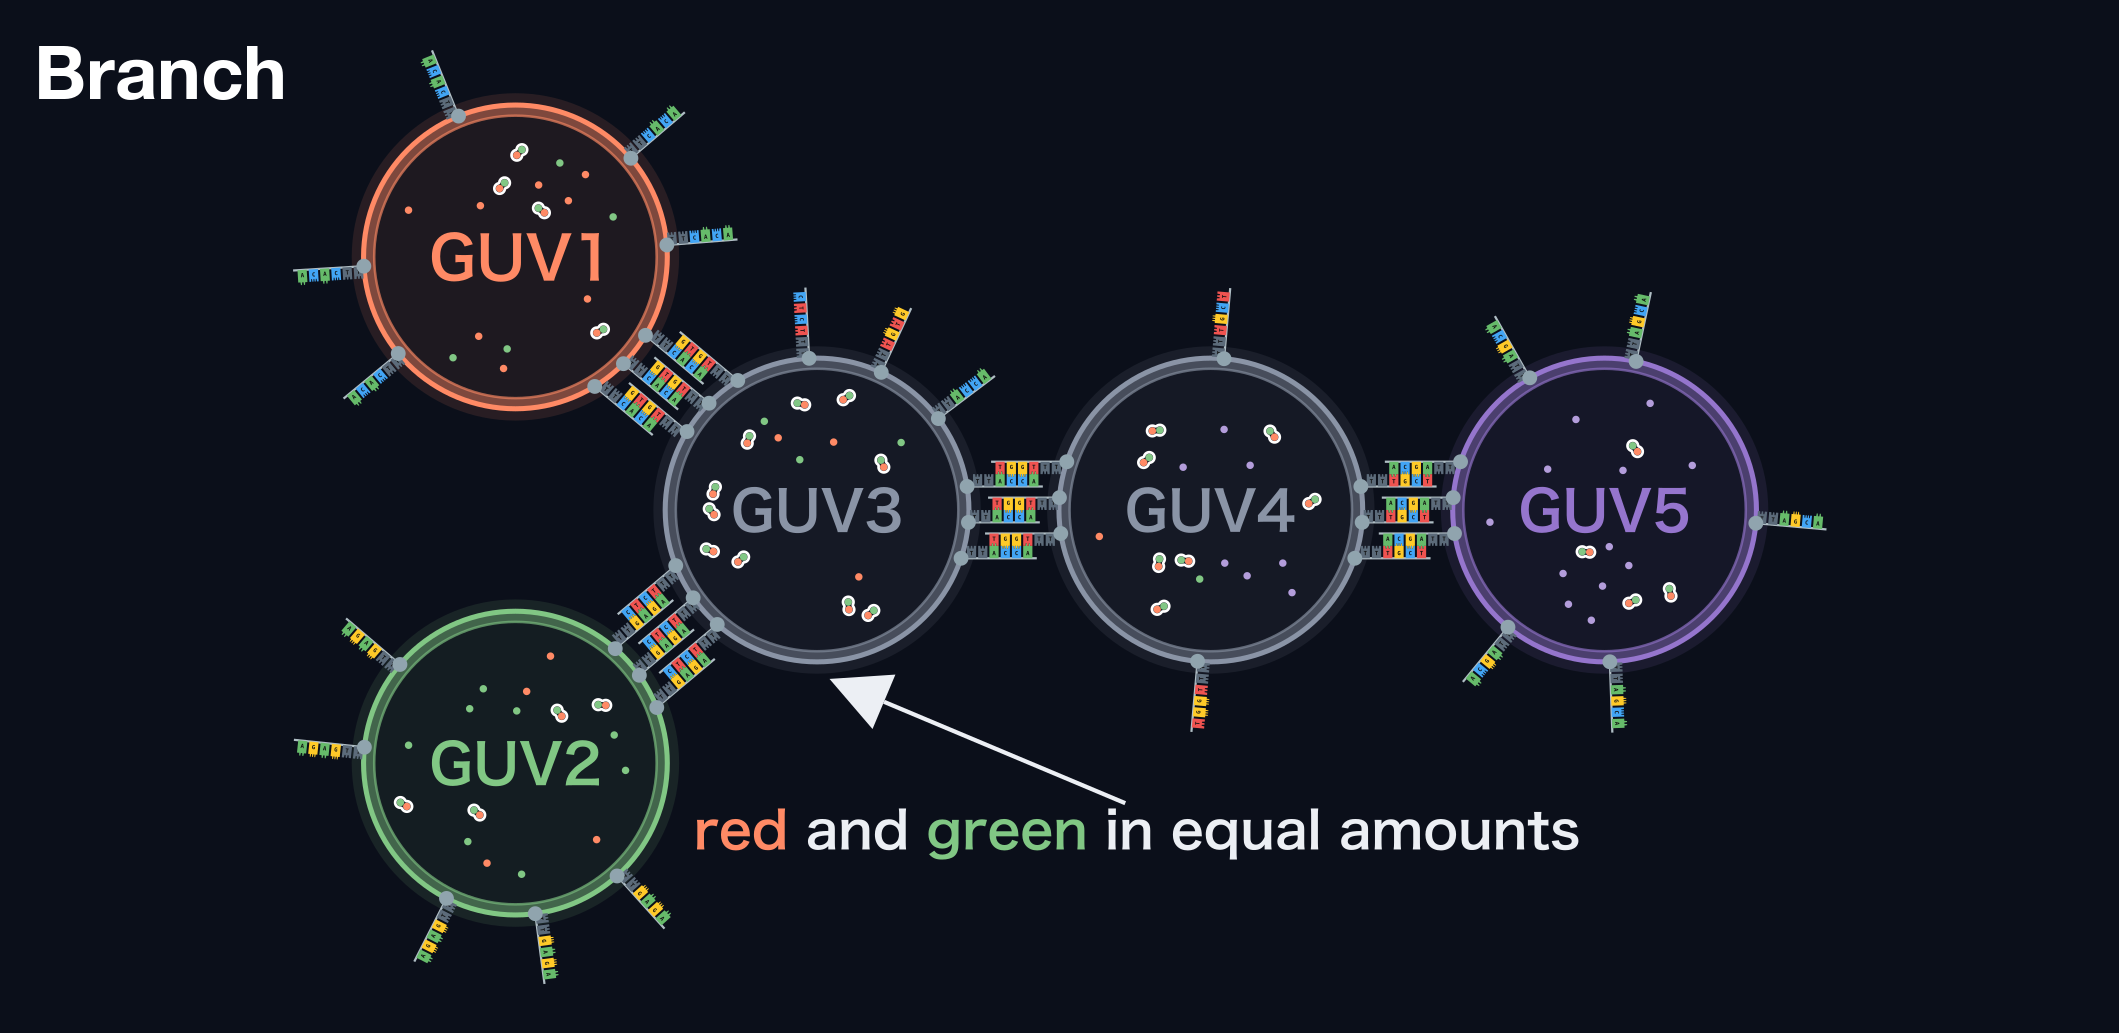
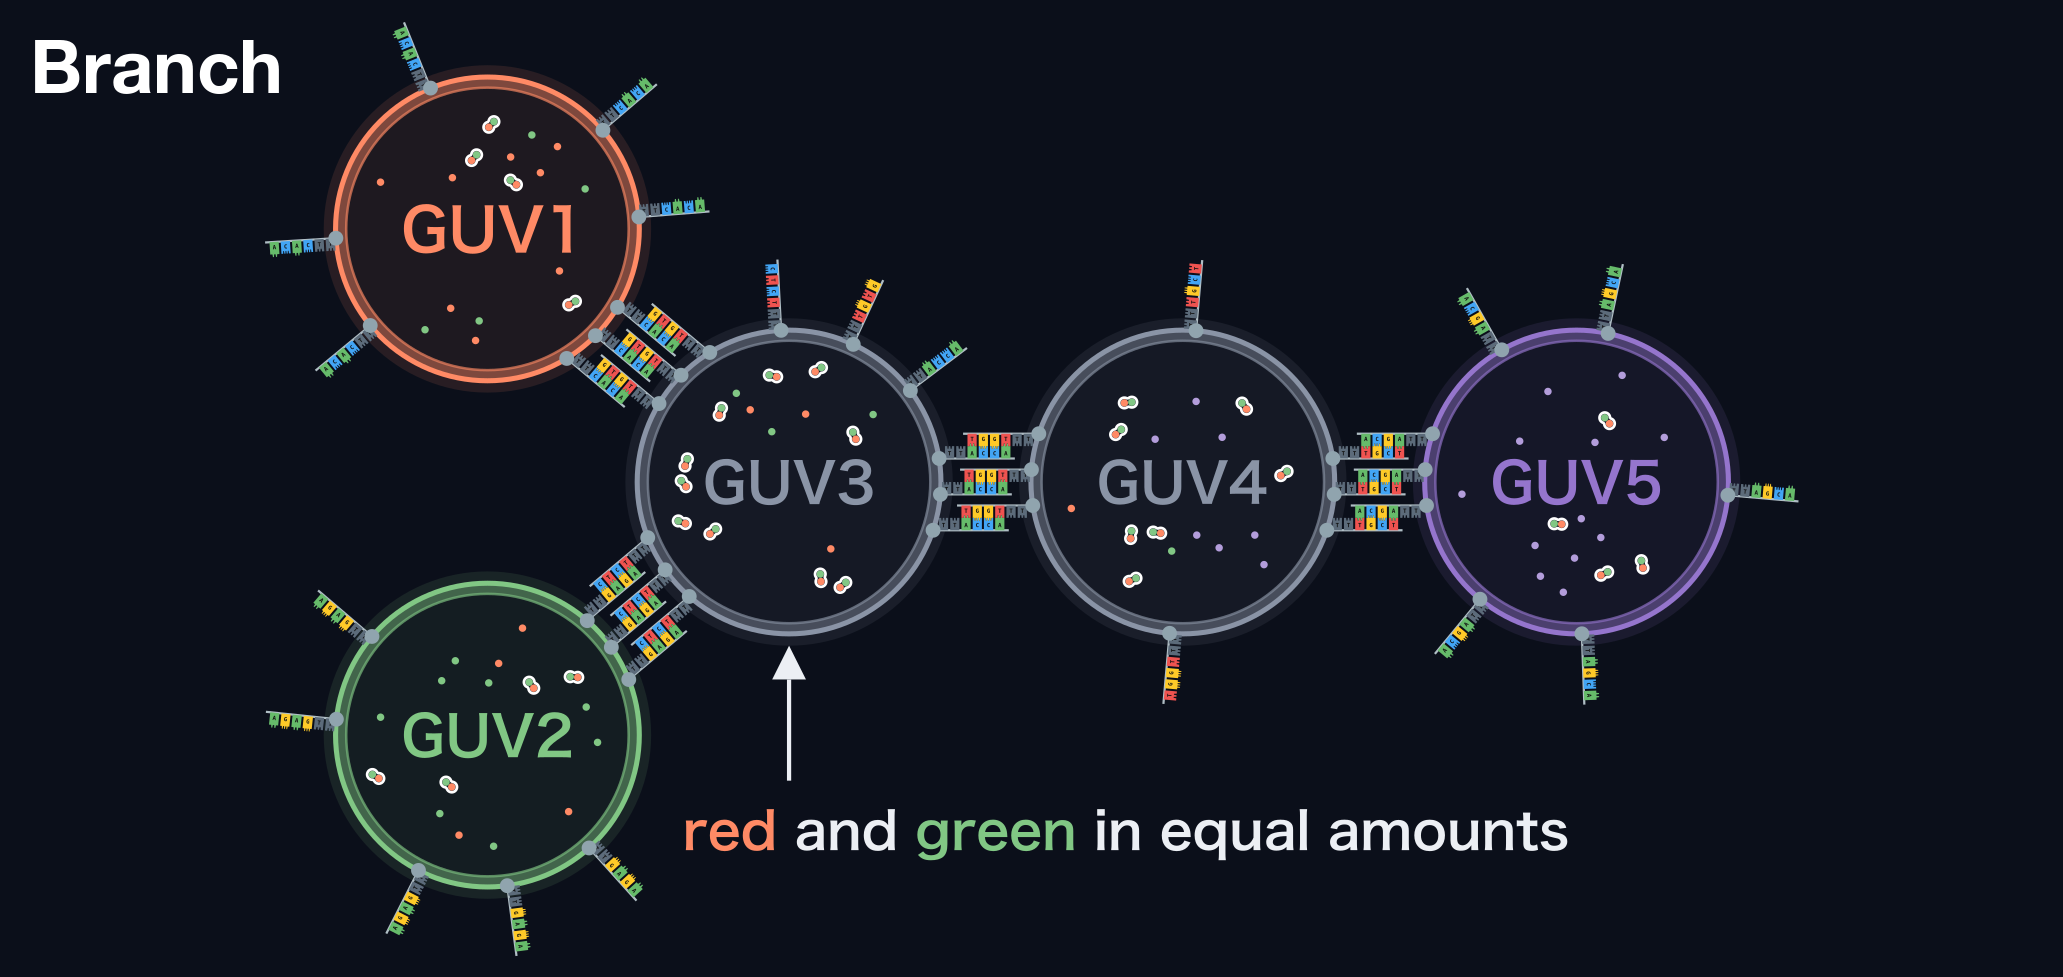
Future Fig. 2: arrow perpendicular to the GUV3 membrane, same arrowhead size in both figures, tighter crop and a wider figure column

Changed region(s): [[0.1241, 0.0307, 0.8686, 0.9826], [0.0, 0.0307, 0.1551, 0.0921], [0.4343, 0.7062, 0.4964, 0.7369]]

diff --git a/future.html b/future.html
@@ -78,7 +78,7 @@
                     </figure>
                     </div>
 
-                    <div class="study-row">
+                    <div class="study-row" style="grid-template-columns:minmax(0,0.8fr) minmax(0,1.2fr);">
                         <div class="study-text">
                             <p>
                                 Branching increases the number of partners that one GUV can have. In a line, a GUV has at most two partners, so it can receive from one side and pass on to the other side. At a branch point, a GUV can have three or more partners. This makes it easier to carry out convergent synthesis, in which two parts of a molecule are made separately and then joined <a href="#ref-1" id="cite-1">[1]</a>. Here, the red contents of GUV1 and the green contents of GUV2 react first, and the product then mixes with the purple contents of GUV5. In the line (Fig. 2, top), the red contents of GUV1 have to pass through GUV2 to reach GUV3, so GUV3 is expected to receive more green contents than red contents, and the red contents already mix with the green ones in GUV2. In the branched network (Fig. 2, bottom), GUV1 and GUV2 are both connected directly to GUV3, so the red and green contents are expected to reach GUV3 in similar amounts and mix there evenly. The product is then passed on to GUV4, where it mixes with the purple contents. A branch point can also pass one product to two GUVs for two different reactions.
